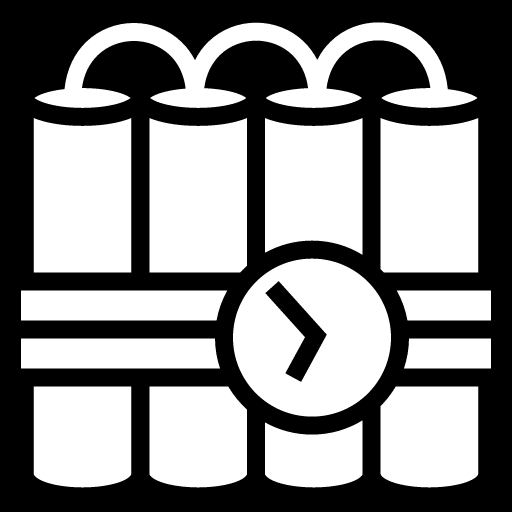
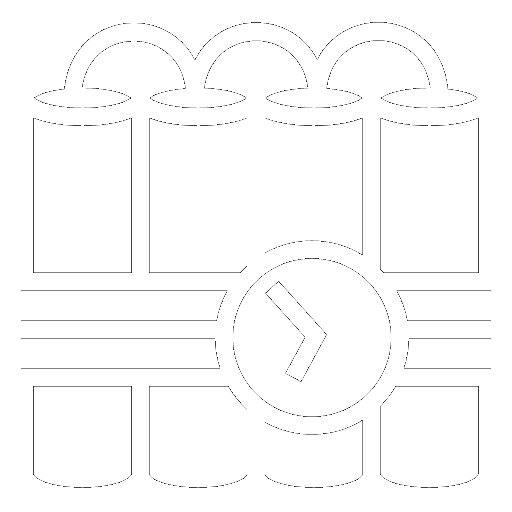
Dynamite added

diff --git a/Assets/Scripts/Core/NewPlayer.cs b/Assets/Scripts/Core/NewPlayer.cs
@@ -69,6 +69,8 @@ public class NewPlayer : PhysicsObject
     public int maxHealth;
     public int maxAmmo;
 
+    public GameObject dynamite;
+
     [Header ("Sounds")]
     public AudioClip deathSound;
     public AudioClip equipSound;
@@ -155,7 +157,7 @@ public class NewPlayer : PhysicsObject
 
             if (GameManager.Instance.isFull[0] == true || GameManager.Instance.isFull[1] == true)
             {
-                if (Input.GetAxisRaw("Slot1") != 0)
+                if (Input.GetKeyDown(KeyCode.Z))
                 {
                     foreach (string name in GameManager.Instance.keys)
                     {
@@ -167,13 +169,15 @@ public class NewPlayer : PhysicsObject
                             if (name == "RedBalloon" || name == "BlueBalloon") BalloonAction(name);
                             //Beer
                             if (name == "LightBeer" || name == "DarkBeer") BeerAction(name);
+                            //Dynamite
+                            if (name == "Dynamite") DynamiteAction(name);
 
                             break;
                         }
                     }
                 }
 
-                if (Input.GetAxisRaw("Slot2") != 0)
+                if (Input.GetKeyDown(KeyCode.X))
                 {
                     foreach (string name in GameManager.Instance.keys)
                     {
@@ -261,6 +265,13 @@ public class NewPlayer : PhysicsObject
     {
         drunkEffectActive = true;
         GameManager.Instance.RemoveInventoryItem(name);
+    }
+
+    public void DynamiteAction(string name)
+    {
+        GameManager.Instance.RemoveInventoryItem(name);
+        Instantiate(dynamite, null);
+
     }
 
     public void SetGroundType()

diff --git a/Assets/Scripts/DynamiteExplosion.cs b/Assets/Scripts/DynamiteExplosion.cs
@@ -1,0 +1,42 @@
+using System.Collections;
+using System.Collections.Generic;
+using UnityEngine;
+
+public class DynamiteExplosion : MonoBehaviour
+{
+
+
+    // Start is called before the first frame update
+    void Start()
+    {
+        gameObject.transform.position = NewPlayer.Instance.transform.position;
+    }
+
+    void OnCollisionEnter2D() 
+    {
+        Debug.Log("function works");
+        StartCoroutine(Wait());
+        
+    }
+
+    IEnumerator Wait()
+    {
+        yield return new WaitForSeconds(5);
+        var hitColliders = Physics2D.OverlapCircleAll(transform.position, 1.5f);
+        foreach (Collider2D hitCollider in hitColliders)
+        {
+            Debug.Log("hit something");
+            if (hitCollider.GetComponent<AttackHit>())
+            {
+                AttackHit target = hitCollider.GetComponent<AttackHit>();
+                Debug.Log("found target");
+                if (target.attacksWhat.HasFlag(AttackHit.AttacksWhat.DestructibleWall))
+                {
+                    target.ExplodeObject();
+                    Debug.Log("target destroyed");
+                }
+            }
+        }
+        Destroy(gameObject);
+    }
+}

diff --git a/Assets/Scripts/Interaction/AttackHit.cs b/Assets/Scripts/Interaction/AttackHit.cs
@@ -8,8 +8,8 @@ so we use it for both player attacks and enemy attacks.
 
 public class AttackHit : MonoBehaviour
 {
-    private enum AttacksWhat { EnemyBase, NewPlayer };
-    [SerializeField] private AttacksWhat attacksWhat;
+    public enum AttacksWhat { EnemyBase, NewPlayer, DestructibleWall};
+    public AttacksWhat attacksWhat;
     [SerializeField] private bool oneHitKill;
     [SerializeField] private float startCollisionDelay; //Some enemy types, like EnemyBombs, should not be able blow up until a set amount of time
     private int targetSide = 1; //Is the attack target on the left or right side of this object?
@@ -66,6 +66,11 @@ public class AttackHit : MonoBehaviour
         {
             transform.parent.GetComponent<EnemyBase>().Die();
         }
+    }
+
+    public void ExplodeObject()
+    {
+        Destroy(gameObject);
     }
 
     //Temporarily disable this collider to ensure bombs can launch from inside enemies without blowing up!
